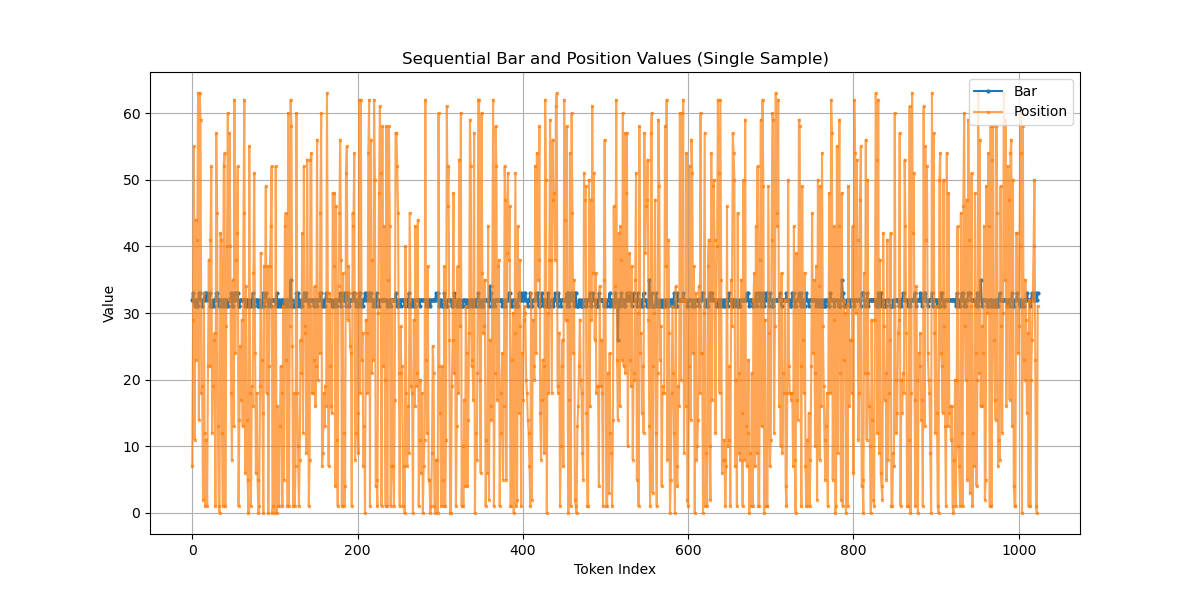
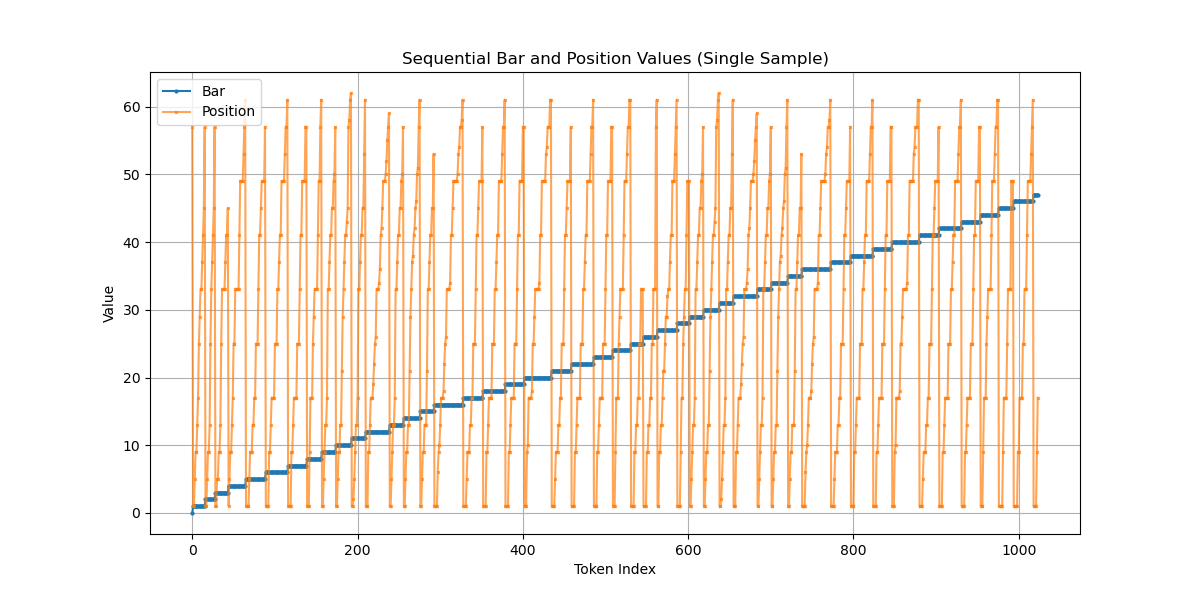
fixed bias finally

diff --git a/src/smdiff/cli/prepare_data.py b/src/smdiff/cli/prepare_data.py
@@ -84,6 +84,38 @@ def process_midi_file(args):
     return result
 
 
+def chunk_sequences(tensors, block_size=1024):
+    """
+    Splits long sequences into chunks of size `block_size`.
+    Shorter leftovers are kept as-is (to be padded at runtime).
+    """
+    chunked_data = []
+    
+    for x in tensors:
+        length = x.shape[0]
+        
+        # Case 1: Sequence fits in one block
+        if length <= block_size:
+            chunked_data.append(x)
+            continue
+            
+        # Case 2: Sequence needs splitting
+        # We use a non-overlapping stride equal to block_size
+        num_chunks = int(np.ceil(length / block_size))
+        
+        for i in range(num_chunks):
+            start = i * block_size
+            end = min(start + block_size, length)
+            
+            chunk = x[start:end]
+            
+            # Safety check for empty chunks
+            if chunk.shape[0] > 0:
+                chunked_data.append(chunk)
+                
+    return chunked_data
+
+
 def load_dataset(root_dir: str,
                  tokenizer_id: str = "melody",
                  bars: int = 64,
@@ -132,6 +164,15 @@ def load_dataset(root_dir: str,
             result.extend(file_res)
 
     print(f"Extracted {len(result)} sequences.")
+    
+    # --- STRATEGY FIX: Chunking ---
+    # We enforce a maximum length of 1024 here.
+    # Longer sequences are split. Shorter sequences are left alone (padded at runtime).
+    # This ensures Bar 0 is always the start of the first chunk.
+    print("Chunking sequences to max length 1024...")
+    result = chunk_sequences(result, block_size=1024)
+    print(f"Final dataset size: {len(result)} chunks.")
+    # ------------------------------
 
     if cache_path:
         os.makedirs(os.path.dirname(cache_path), exist_ok=True)

diff --git a/tests/inspect_octuple_values.py b/tests/inspect_octuple_values.py
@@ -9,13 +9,13 @@ from src.smdiff.metrics.common import duration_histogram, velocity_histogram
 
 try:
     # path = r"runs/samples_35000.npy"
-    path = r"runs\padded\samples\samples_41900.npy"
+    path = "data/POP909_trio_octuple.npy"
     data = np.load(path, allow_pickle=True)
     
     print(f"Loaded {path}, shape {data.shape}")
     
     # Take first 100 samples
-    samples = data[:8]
+    samples = data
 
     
     # Inspect Sample 0
